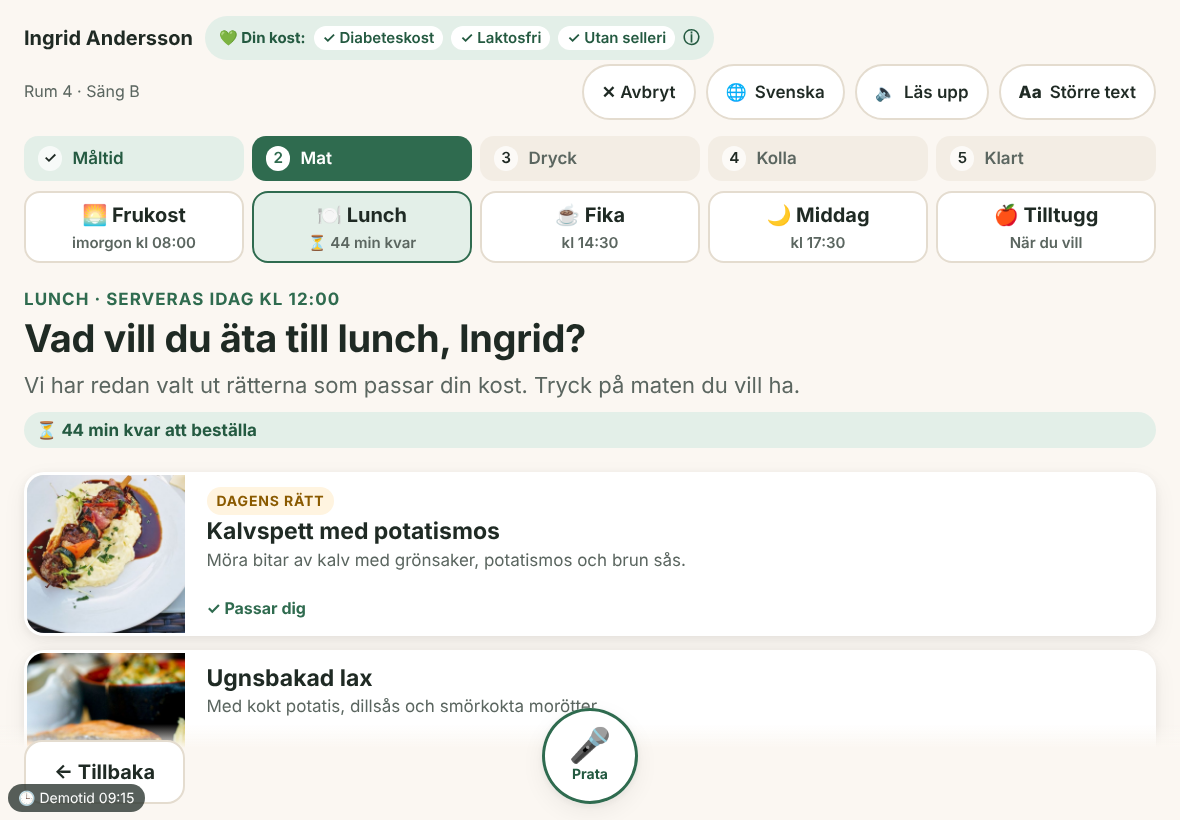
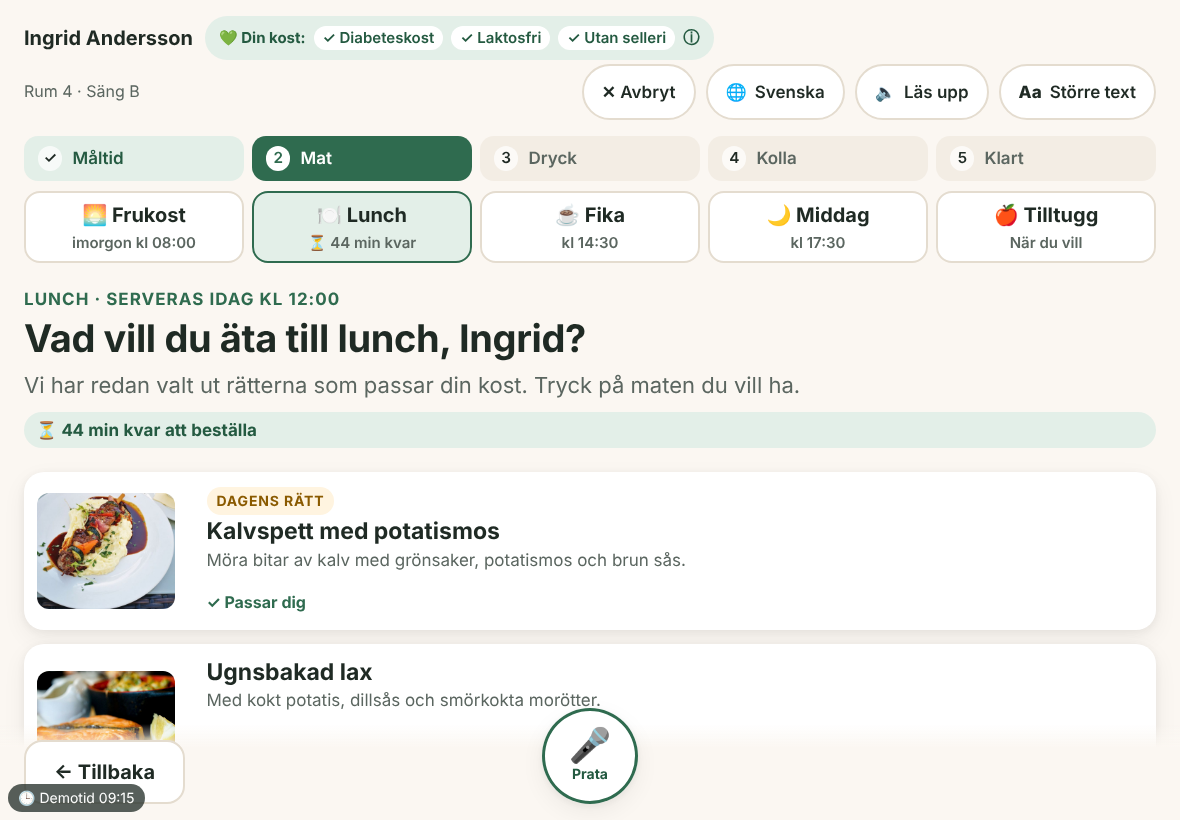
Menyn: hela bilder i egna proportioner, beskrivningen syns på mobil
- Bilden visas hel, utan beskärning, i sina egna proportioner inom en fast ruta
  till vänster om texten. Raderna är lika höga och fyra rätter syns på surfplattan.
- Beskrivningen syns även på mobil (högst två rader), och bilderna är mindre där.
- Menybilderna laddas först när de behövs.

Claude-Session: https://claude.ai/code/session_01W2bM9vS6XV6jr7pPMAABKn

Changed region(s): [[0.0, 0.5793, 0.9763, 0.9146]]

diff --git a/src/app/globals.css b/src/app/globals.css
@@ -1135,14 +1135,23 @@ button:focus-visible {
   --dish-size: clamp(112px, calc((100dvh - 110px) / 4 - 20px), 180px);
 }
 
+/* Bilden visas hel, i sina egna proportioner, inom en fast ruta till vänster om texten. */
+.dish-thumb {
+  width: var(--dish-size);
+  flex: none;
+  display: flex;
+  align-items: center;
+  justify-content: center;
+  padding: 10px;
+}
+
 .dish-image {
   display: block;
-  width: var(--dish-size);
-  height: var(--dish-size);
-  flex-shrink: 0;
-  align-self: center;
-  object-fit: cover;
-  background: var(--surface-2);
+  width: auto;
+  height: auto;
+  max-width: 100%;
+  max-height: calc(var(--dish-size) - 20px);
+  border-radius: 12px;
 }
 
 .dish-body {
@@ -2127,12 +2136,13 @@ html[data-text-size="stor"] .dish-body p {
   margin-top: 16px;
 }
 
-/* Mobil: lägre rader, smalare bild och ingen beskrivning – den finns på rättens sida. */
+/* Mobil: lägre rader och mindre bild. Beskrivningen syns (högst två rader). */
 @media (max-width: 560px) {
-  .dish-grid { --dish-size: 112px; }
-  .dish-body { padding: 10px 14px; }
+  .dish-grid { --dish-size: 104px; }
+  .dish-thumb { padding: 8px; }
+  .dish-image { max-height: calc(var(--dish-size) - 16px); border-radius: 10px; }
+  .dish-body { padding: 10px 14px 10px 4px; }
   .dish-body h2 { font-size: 1em; }
-  .dish-body p { display: none; }
   .summary { padding: 12px 18px; }
   .summary-row { gap: 20px; }
 }

diff --git a/src/app/meny/page.tsx b/src/app/meny/page.tsx
@@ -137,7 +137,7 @@ function Menu() {
               className={`dish ${order.dishId === dish.id ? "selected" : ""} ${suggested ? "suggested" : ""}`}
               onClick={() => choose(dish.id)}
             >
-              <img className="dish-image" src={dish.image} alt={text.imageAlt} />
+              <span className="dish-thumb"><img className="dish-image" src={dish.image} alt={text.imageAlt} loading="lazy" decoding="async" /></span>
               <div className="dish-body">
                 {suggested && (
                   <span className="dish-suggestion">⭐ {m.suggestion} · {m.suggestionWhy(topReason!)}</span>
@@ -184,7 +184,7 @@ function Menu() {
                   return (
                     // Inte en knapp: dolda rätter går inte att välja.
                     <li key={dish.id} className="dish blocked" aria-disabled="true">
-                      <img className="dish-image" src={dish.image} alt={text.imageAlt} />
+                      <span className="dish-thumb"><img className="dish-image" src={dish.image} alt={text.imageAlt} loading="lazy" decoding="async" /></span>
                       <div className="dish-body">
                         <span className="dish-label dish-blocked">🚫 {m.notOrderable}</span>
                         <h3>{text.name}</h3>
